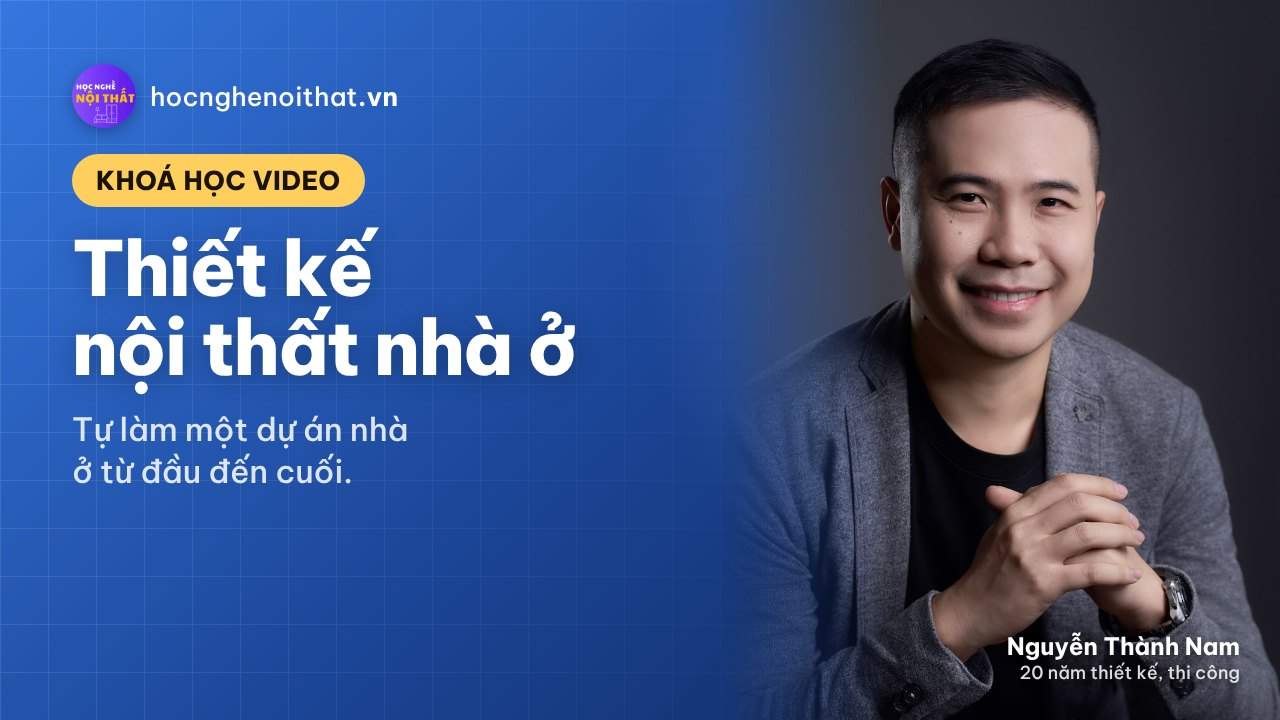
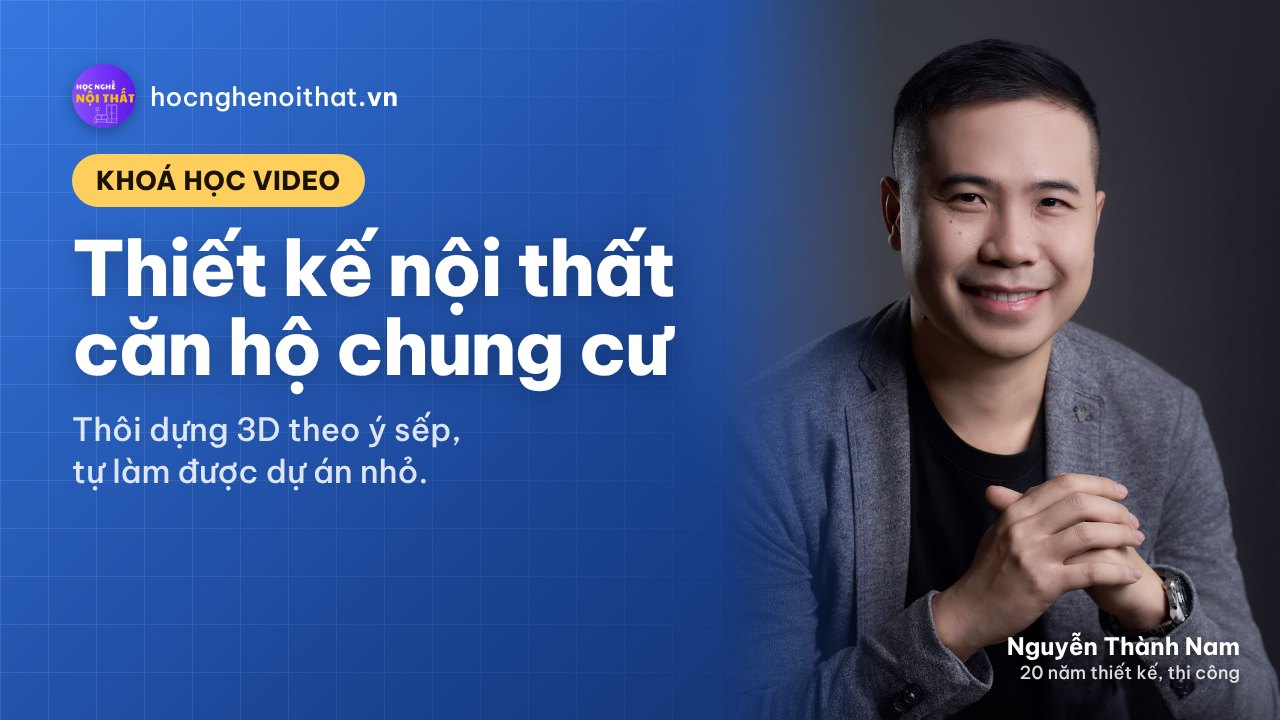
Khoá học: đổi tên Thiết kế nội thất căn hộ chung cư, bỏ nhãn trùng ý, câu giới thiệu 1 dòng có ngoặc kép ở mọi thẻ; Chuyển khoản (tại đây) cùng dòng
Claude-Session: https://claude.ai/code/session_01R1JQNXKSkK2vrspryuBMNZ

Changed region(s): [[0.0625, 0.3056, 0.5312, 0.55], [0.0312, 0.5806, 0.375, 0.6722]]

diff --git a/index.html b/index.html
@@ -905,6 +905,13 @@
   .channels li::after{ content:"›"; position:absolute; right:4px; top:50%; transform:translateY(-50%); font-size:22px; color:var(--muted); transition:transform .2s, color .2s; }
   .channels li:hover::after{ color:var(--primary); transform:translate(3px,-50%); }
   .channels li:hover a{ color:var(--primary); }
+  /* Câu giới thiệu khoá học: có dấu ngoặc kép ở đầu như nhau */
+  .course-grid .course-hook{ position:relative; padding-left:30px; color:rgba(255,255,255,.88); font-weight:300; }
+  .course-grid .course-hook::before{ content:"\201C"; position:absolute; left:0; top:-6px; font-size:46px; line-height:1; font-weight:600; color:rgba(255,255,255,.55); font-family:Georgia, 'Times New Roman', serif; }
+  .course-grid .course .h-card, .course-grid .course-name{ margin-top:0; }
+  /* Chuyển khoản (tại đây) cùng một dòng */
+  .how-steps .qr-box > summary{ white-space:nowrap; font-size:15px !important; }
+  .how-steps .qr-here{ display:inline; }
   /* nút Zalo tròn */
   .zalo-float{ width:58px; height:58px; min-height:0; padding:0; justify-content:center; border-radius:50% !important; background:#0068FF; }
   .zalo-float:hover{ background:#0057D9; }
@@ -1182,10 +1189,9 @@
 
     <div class="course-grid">
       <article class="card course c-blue" id="khoa-nha-o">
-        <span class="badge">Tập trung căn hộ chung cư</span>
-        <h3 class="course-name">Thiết kế nội thất nhà ở</h3>
-        <p class="course-hook">Thôi dựng 3D theo ý sếp.<span>Tự làm được một dự án nhà ở từ đầu đến cuối.</span></p>
-          <div class="yt" data-id="4BU7QPbhG1c"><a class="yt-btn" href="https://youtu.be/4BU7QPbhG1c" target="_blank" rel="noopener" aria-label="Phát video: Thiết kế nội thất nhà ở"><img src="anh/video-nha-o.jpg" width="1280" height="720" alt="" loading="lazy" decoding="async"><span class="yt-play" aria-hidden="true"></span></a></div>
+        <h3 class="course-name">Thiết kế nội thất căn hộ chung cư</h3>
+        <p class="course-hook">Thôi dựng 3D theo ý sếp, tự làm được dự án nhỏ.</p>
+          <div class="yt" data-id="4BU7QPbhG1c"><a class="yt-btn" href="https://youtu.be/4BU7QPbhG1c" target="_blank" rel="noopener" aria-label="Phát video: Thiết kế nội thất căn hộ chung cư"><img src="anh/video-nha-o.jpg" width="1280" height="720" alt="" loading="lazy" decoding="async"><span class="yt-play" aria-hidden="true"></span></a></div>
         <div class="course-price">2.000.000 <small>đ</small></div>
         <div class="course-acts"><a class="btn btn-light btn-cta" href="https://docs.google.com/forms/d/e/1FAIpQLSdifzcGTMugGK9Ek7sWFCMCUjauHt-X1sbSAenD5RiDJKavzA/viewform" target="_blank" rel="noopener">Đăng ký ngay <span class="arrow" aria-hidden="true">›</span></a><a class="btn btn-glass" href="khoa-hoc/nha-o.html">Xem chi tiết <span aria-hidden="true">›</span></a></div>
       </article>
@@ -1193,16 +1199,15 @@
       <article class="card course c-teal" id="khoa-du-toan">
         <span class="badge">Kèm file báo giá thật</span>
         <h3 class="course-name">Dự toán thi công nội thất cơ bản</h3>
-        <p class="course-hook">Sắp tự đứng ra nhận công trình?<span>Học làm báo giá bằng Excel cho chuẩn.</span></p>
+        <p class="course-hook">Sắp tự nhận công trình? Học làm báo giá bằng Excel cho chuẩn.</p>
           <div class="yt" data-id="xZTKqIOn3Ho"><a class="yt-btn" href="https://youtu.be/xZTKqIOn3Ho" target="_blank" rel="noopener" aria-label="Phát video: Dự toán thi công nội thất cơ bản"><img src="anh/video-du-toan.jpg" width="1280" height="720" alt="" loading="lazy" decoding="async"><span class="yt-play" aria-hidden="true"></span></a></div>
         <div class="course-price">2.000.000 <small>đ</small></div>
         <div class="course-acts"><a class="btn btn-light btn-cta" href="https://docs.google.com/forms/d/e/1FAIpQLSfOYgJ1NfPnBZgYwoXjs7Bxw-1M9cBJWtqSdpA-mTsrHY5d0g/viewform" target="_blank" rel="noopener">Đăng ký ngay <span class="arrow" aria-hidden="true">›</span></a><a class="btn btn-glass" href="khoa-hoc/du-toan.html">Xem chi tiết <span aria-hidden="true">›</span></a></div>
       </article>
 
       <article class="card course c-plum" id="khoa-sale">
-        <span class="badge">Dành cho sale nội thất</span>
         <h3 class="course-name">Tư vấn thiết kế dành cho sale nội thất</h3>
-        <p class="course-hook">Sale hiểu vật liệu, hiểu xưởng.<span>Giao đề bài đúng cho đội thiết kế ngay từ đầu.</span></p>
+        <p class="course-hook">Sale hiểu vật liệu, hiểu xưởng, giao đề bài đúng cho đội thiết kế.</p>
           <div class="yt" data-id="o3diN7-IPm8"><a class="yt-btn" href="https://youtu.be/o3diN7-IPm8" target="_blank" rel="noopener" aria-label="Phát video: Tư vấn thiết kế dành cho sale nội thất"><img src="anh/video-sale.jpg" width="1280" height="720" alt="" loading="lazy" decoding="async"><span class="yt-play" aria-hidden="true"></span></a></div>
         <div class="course-price">2.000.000 <small>đ</small></div>
         <div class="course-acts"><a class="btn btn-light btn-cta" href="https://docs.google.com/forms/d/e/1FAIpQLSd36TPP4fJHnBqVSjlIcWRFq9aTq3KaVEYv0PhZv77tCKz2KQ/viewform" target="_blank" rel="noopener">Đăng ký ngay <span class="arrow" aria-hidden="true">›</span></a><a class="btn btn-glass" href="khoa-hoc/sale.html">Xem chi tiết <span aria-hidden="true">›</span></a></div>
@@ -1211,7 +1216,7 @@
       <article class="card course c-soon" id="khoa-cnc">
         <span class="badge badge-soon">Sắp ra mắt</span>
         <h3 class="course-name">Ra file cắt CNC với ABF</h3>
-        <p class="course-hook">Chốt mẫu xong là tự ra được file cắt.<span>Tránh hỏng ván, mất tiền.</span></p>
+        <p class="course-hook">Chốt mẫu xong là tự ra được file cắt, tránh hỏng ván, mất tiền.</p>
         <div class="yt yt-still"><img src="anh/video-cnc.jpg" width="1280" height="720" alt="Khoá Ra file cắt CNC với ABF, sắp ra mắt" loading="lazy" decoding="async"></div>
         <div class="course-price">4.000.000 <small>đ</small></div>
         <div class="course-acts"><a class="btn btn-light btn-cta" href="https://docs.google.com/forms/d/e/1FAIpQLSdlW6PsAcfmVvk8memwWx3kS7WMFKxt3L8bE9HIWEsogFJPYQ/viewform" target="_blank" rel="noopener">Đăng ký trước <span class="arrow" aria-hidden="true">›</span></a><a class="btn btn-glass" href="khoa-hoc/cnc.html">Xem chi tiết <span aria-hidden="true">›</span></a></div>

diff --git a/khoa-hoc/nha-o.html b/khoa-hoc/nha-o.html
@@ -3,7 +3,7 @@
 <head>
 <meta charset="utf-8">
 <meta name="viewport" content="width=device-width, initial-scale=1">
-<title>Thiết kế nội thất nhà ở · Khoá học · hocnghenoithat.vn</title>
+<title>Thiết kế nội thất căn hộ chung cư · Khoá học · hocnghenoithat.vn</title>
 <meta name="description" content="Thôi dựng 3D theo ý sếp. Tự làm được một dự án nhà ở từ đầu đến cuối.">
 <link rel="icon" type="image/png" href="../anh/favicon.png">
 <link rel="apple-touch-icon" href="../anh/logo-180.png">
@@ -29,8 +29,8 @@
     <div class="wrap hero-grid">
       <div>
         <a class="back" href="../index.html#khoa-hoc">‹ Tất cả khoá học</a>
-        <span class="tag">Tập trung căn hộ chung cư</span>
-        <h1>Thiết kế nội thất nhà ở</h1>
+        <span class="tag">Khoá học video</span>
+        <h1>Thiết kế nội thất căn hộ chung cư</h1>
         <p class="hook">Thôi dựng 3D theo ý sếp.<span>Tự làm được một dự án nhà ở từ đầu đến cuối.</span></p>
         
         <div class="price">2.000.000 <small>đ</small></div>
@@ -44,10 +44,10 @@
       <li><b>1</b><span>Điền form đăng ký</span></li><li class="has-qr"><b>2</b><details class="qr-box"><summary>Chuyển khoản <span class="qr-here">(tại đây)</span></summary><a class="qr" href="../anh/qr-chuyen-khoan.jpg" target="_blank" rel="noopener"><img src="../anh/qr-chuyen-khoan.jpg" alt="Mã QR chuyển khoản MB Bank, tài khoản Nguyen Thanh Nam" loading="lazy"></a></details></li>
       <li><b>3</b><span>Nhắn Zalo để xác nhận với Nam</span></li><li><b>4</b><span>Nhận link bài học qua email</span></li></ol></section>
     <section class="cta-band c-blue">
-      <div><b>Thiết kế nội thất nhà ở</b><span>2.000.000 đ</span></div>
+      <div><b>Thiết kế nội thất căn hộ chung cư</b><span>2.000.000 đ</span></div>
       <a class="btn btn-cta" href="https://docs.google.com/forms/d/e/1FAIpQLSdifzcGTMugGK9Ek7sWFCMCUjauHt-X1sbSAenD5RiDJKavzA/viewform" target="_blank" rel="noopener">Đăng ký ngay ›</a>
     </section>
-    <section class="blk"><h2>Các khoá khác</h2><div class="others"><a class="other c-violet" href="do-go.html"><span>Nên học trước</span><b>Thiết kế đồ nội thất gỗ công nghiệp</b></a><a class="other c-teal" href="du-toan.html"><span>Kèm file báo giá thật</span><b>Dự toán thi công nội thất cơ bản</b></a><a class="other c-plum" href="sale.html"><span>Dành cho sale nội thất</span><b>Tư vấn thiết kế dành cho sale nội thất</b></a><a class="other c-slate" href="cnc.html"><span>Sắp ra mắt</span><b>Ra file cắt CNC với ABF</b></a></div></section>
+    <section class="blk"><h2>Các khoá khác</h2><div class="others"><a class="other c-violet" href="do-go.html"><span>Nên học trước</span><b>Thiết kế đồ nội thất gỗ công nghiệp</b></a><a class="other c-teal" href="du-toan.html"><span>Kèm file báo giá thật</span><b>Dự toán thi công nội thất cơ bản</b></a><a class="other c-plum" href="sale.html"><span>Khoá học video</span><b>Tư vấn thiết kế dành cho sale nội thất</b></a><a class="other c-slate" href="cnc.html"><span>Sắp ra mắt</span><b>Ra file cắt CNC với ABF</b></a></div></section>
   </div>
 </main>
 <footer class="foot"><div class="wrap">© 2026 hocnghenoithat.vn · Nguyễn Thành Nam</div></footer>

diff --git a/khoa-hoc/sale.html b/khoa-hoc/sale.html
@@ -29,7 +29,7 @@
     <div class="wrap hero-grid">
       <div>
         <a class="back" href="../index.html#khoa-hoc">‹ Tất cả khoá học</a>
-        <span class="tag">Dành cho sale nội thất</span>
+        <span class="tag">Khoá học video</span>
         <h1>Tư vấn thiết kế dành cho sale nội thất</h1>
         <p class="hook">Sale hiểu vật liệu, hiểu xưởng.<span>Giao đề bài đúng cho đội thiết kế ngay từ đầu.</span></p>
         
@@ -47,7 +47,7 @@
       <div><b>Tư vấn thiết kế dành cho sale nội thất</b><span>2.000.000 đ</span></div>
       <a class="btn btn-cta" href="https://docs.google.com/forms/d/e/1FAIpQLSd36TPP4fJHnBqVSjlIcWRFq9aTq3KaVEYv0PhZv77tCKz2KQ/viewform" target="_blank" rel="noopener">Đăng ký ngay ›</a>
     </section>
-    <section class="blk"><h2>Các khoá khác</h2><div class="others"><a class="other c-violet" href="do-go.html"><span>Nên học trước</span><b>Thiết kế đồ nội thất gỗ công nghiệp</b></a><a class="other c-blue" href="nha-o.html"><span>Tập trung căn hộ chung cư</span><b>Thiết kế nội thất nhà ở</b></a><a class="other c-teal" href="du-toan.html"><span>Kèm file báo giá thật</span><b>Dự toán thi công nội thất cơ bản</b></a><a class="other c-slate" href="cnc.html"><span>Sắp ra mắt</span><b>Ra file cắt CNC với ABF</b></a></div></section>
+    <section class="blk"><h2>Các khoá khác</h2><div class="others"><a class="other c-violet" href="do-go.html"><span>Nên học trước</span><b>Thiết kế đồ nội thất gỗ công nghiệp</b></a><a class="other c-blue" href="nha-o.html"><span>Khoá học video</span><b>Thiết kế nội thất căn hộ chung cư</b></a><a class="other c-teal" href="du-toan.html"><span>Kèm file báo giá thật</span><b>Dự toán thi công nội thất cơ bản</b></a><a class="other c-slate" href="cnc.html"><span>Sắp ra mắt</span><b>Ra file cắt CNC với ABF</b></a></div></section>
   </div>
 </main>
 <footer class="foot"><div class="wrap">© 2026 hocnghenoithat.vn · Nguyễn Thành Nam</div></footer>

diff --git a/khoa-hoc/cnc.html b/khoa-hoc/cnc.html
@@ -47,7 +47,7 @@
       <div><b>Ra file cắt CNC với ABF</b><span>4.000.000 đ</span></div>
       <a class="btn btn-cta" href="https://docs.google.com/forms/d/e/1FAIpQLSdlW6PsAcfmVvk8memwWx3kS7WMFKxt3L8bE9HIWEsogFJPYQ/viewform" target="_blank" rel="noopener">Đăng ký trước ›</a>
     </section>
-    <section class="blk"><h2>Các khoá khác</h2><div class="others"><a class="other c-violet" href="do-go.html"><span>Nên học trước</span><b>Thiết kế đồ nội thất gỗ công nghiệp</b></a><a class="other c-blue" href="nha-o.html"><span>Tập trung căn hộ chung cư</span><b>Thiết kế nội thất nhà ở</b></a><a class="other c-teal" href="du-toan.html"><span>Kèm file báo giá thật</span><b>Dự toán thi công nội thất cơ bản</b></a><a class="other c-plum" href="sale.html"><span>Dành cho sale nội thất</span><b>Tư vấn thiết kế dành cho sale nội thất</b></a></div></section>
+    <section class="blk"><h2>Các khoá khác</h2><div class="others"><a class="other c-violet" href="do-go.html"><span>Nên học trước</span><b>Thiết kế đồ nội thất gỗ công nghiệp</b></a><a class="other c-blue" href="nha-o.html"><span>Khoá học video</span><b>Thiết kế nội thất căn hộ chung cư</b></a><a class="other c-teal" href="du-toan.html"><span>Kèm file báo giá thật</span><b>Dự toán thi công nội thất cơ bản</b></a><a class="other c-plum" href="sale.html"><span>Khoá học video</span><b>Tư vấn thiết kế dành cho sale nội thất</b></a></div></section>
   </div>
 </main>
 <footer class="foot"><div class="wrap">© 2026 hocnghenoithat.vn · Nguyễn Thành Nam</div></footer>

diff --git a/khoa-hoc/do-go.html b/khoa-hoc/do-go.html
@@ -47,7 +47,7 @@
       <div><b>Thiết kế đồ nội thất gỗ công nghiệp</b><span>3.000.000 đ</span></div>
       <a class="btn btn-cta" href="https://docs.google.com/forms/d/e/1FAIpQLSfQxAkoKXSXmKOlOiXHCPoDMdVTEEzLfocBijmvAzzzoXNQAg/viewform" target="_blank" rel="noopener">Đăng ký ngay ›</a>
     </section>
-    <section class="blk"><h2>Các khoá khác</h2><div class="others"><a class="other c-blue" href="nha-o.html"><span>Tập trung căn hộ chung cư</span><b>Thiết kế nội thất nhà ở</b></a><a class="other c-teal" href="du-toan.html"><span>Kèm file báo giá thật</span><b>Dự toán thi công nội thất cơ bản</b></a><a class="other c-plum" href="sale.html"><span>Dành cho sale nội thất</span><b>Tư vấn thiết kế dành cho sale nội thất</b></a><a class="other c-slate" href="cnc.html"><span>Sắp ra mắt</span><b>Ra file cắt CNC với ABF</b></a></div></section>
+    <section class="blk"><h2>Các khoá khác</h2><div class="others"><a class="other c-blue" href="nha-o.html"><span>Khoá học video</span><b>Thiết kế nội thất căn hộ chung cư</b></a><a class="other c-teal" href="du-toan.html"><span>Kèm file báo giá thật</span><b>Dự toán thi công nội thất cơ bản</b></a><a class="other c-plum" href="sale.html"><span>Khoá học video</span><b>Tư vấn thiết kế dành cho sale nội thất</b></a><a class="other c-slate" href="cnc.html"><span>Sắp ra mắt</span><b>Ra file cắt CNC với ABF</b></a></div></section>
   </div>
 </main>
 <footer class="foot"><div class="wrap">© 2026 hocnghenoithat.vn · Nguyễn Thành Nam</div></footer>

diff --git a/khoa-hoc/du-toan.html b/khoa-hoc/du-toan.html
@@ -47,7 +47,7 @@
       <div><b>Dự toán thi công nội thất cơ bản</b><span>2.000.000 đ</span></div>
       <a class="btn btn-cta" href="https://docs.google.com/forms/d/e/1FAIpQLSfOYgJ1NfPnBZgYwoXjs7Bxw-1M9cBJWtqSdpA-mTsrHY5d0g/viewform" target="_blank" rel="noopener">Đăng ký ngay ›</a>
     </section>
-    <section class="blk"><h2>Các khoá khác</h2><div class="others"><a class="other c-violet" href="do-go.html"><span>Nên học trước</span><b>Thiết kế đồ nội thất gỗ công nghiệp</b></a><a class="other c-blue" href="nha-o.html"><span>Tập trung căn hộ chung cư</span><b>Thiết kế nội thất nhà ở</b></a><a class="other c-plum" href="sale.html"><span>Dành cho sale nội thất</span><b>Tư vấn thiết kế dành cho sale nội thất</b></a><a class="other c-slate" href="cnc.html"><span>Sắp ra mắt</span><b>Ra file cắt CNC với ABF</b></a></div></section>
+    <section class="blk"><h2>Các khoá khác</h2><div class="others"><a class="other c-violet" href="do-go.html"><span>Nên học trước</span><b>Thiết kế đồ nội thất gỗ công nghiệp</b></a><a class="other c-blue" href="nha-o.html"><span>Khoá học video</span><b>Thiết kế nội thất căn hộ chung cư</b></a><a class="other c-plum" href="sale.html"><span>Khoá học video</span><b>Tư vấn thiết kế dành cho sale nội thất</b></a><a class="other c-slate" href="cnc.html"><span>Sắp ra mắt</span><b>Ra file cắt CNC với ABF</b></a></div></section>
   </div>
 </main>
 <footer class="foot"><div class="wrap">© 2026 hocnghenoithat.vn · Nguyễn Thành Nam</div></footer>

diff --git a/cong-cu/thumbnail/tao.js b/cong-cu/thumbnail/tao.js
@@ -3,7 +3,7 @@ const {chromium}=require('playwright');const path=require('path');
 const goc=path.resolve(__dirname,'..','..');
 const ds=[
  ['do-go','violet','Xem video bài giảng','Thiết kế|đồ gỗ công nghiệp','Vẽ sao cho xưởng sản xuất được mới là thiết kế.'],
- ['nha-o','blue','Khoá học video','Thiết kế|nội thất nhà ở','Tự làm một dự án nhà ở từ đầu đến cuối.'],
+ ['nha-o','blue','Khoá học video','Thiết kế nội thất|căn hộ chung cư','Thôi dựng 3D theo ý sếp, tự làm được dự án nhỏ.'],
  ['du-toan','teal','Khoá học video','Dự toán|thi công nội thất','Làm báo giá bằng Excel, từ file báo giá thật.'],
  ['sale','plum','Khoá học video','Tư vấn thiết kế|cho sale nội thất','Hiểu vật liệu, hiểu xưởng, giao đề bài đúng.'],
  ['cnc','slate','Sắp ra mắt','Ra file cắt CNC|với ABF','Chốt mẫu xong là tự ra file cắt, tránh hỏng ván.'],

diff --git a/khoa-hoc/khoa-hoc.css b/khoa-hoc/khoa-hoc.css
@@ -88,3 +88,5 @@ figcaption{ margin-top:8px; font-size:14px; color:var(--muted); }
 .how .qr-box > summary{ display:block; padding-top:8px !important; min-height:40px; margin:0; padding:0; border:0; background:none; color:var(--text); font-size:16px; font-weight:500; border-radius:0; }
 .how .qr-box[open] > summary{ background:none; color:var(--text); }
 .qr-here{ white-space:nowrap; margin-left:5px; color:var(--primary); text-decoration:underline; text-underline-offset:3px; }
+.how .qr-box > summary{ white-space:nowrap; font-size:15px !important; }
+.how .qr-here{ display:inline; }

diff --git a/cong-cu/tao-khoa-hoc.py b/cong-cu/tao-khoa-hoc.py
@@ -33,8 +33,8 @@ KHOA = [
                  'Đủ tự tin để nhận cả thiết kế lẫn thi công đồ gỗ'],
        ho_tro='Gửi bài vào nhóm Facebook học viên, Nam nhận xét.',
        video=[('RMaDNY6P_i0', 'Xem video bài giảng')], anh=[]),
-  dict(ten='nha-o', mau='c-blue', nhan='Tập trung căn hộ chung cư',
-       tieu_de='Thiết kế nội thất nhà ở',
+  dict(ten='nha-o', mau='c-blue', nhan='Khoá học video',
+       tieu_de='Thiết kế nội thất căn hộ chung cư',
        cau1='Thôi dựng 3D theo ý sếp.', cau2='Tự làm được một dự án nhà ở từ đầu đến cuối.',
        gia='2.000.000', gia_phu='', so_lieu='',
        form='1FAIpQLSdifzcGTMugGK9Ek7sWFCMCUjauHt-X1sbSAenD5RiDJKavzA',
@@ -58,7 +58,7 @@ KHOA = [
        lam_duoc=['Tự lập báo giá cho một công trình nội thất', 'Biết mình đang lãi lỗ ở đâu trước khi ký hợp đồng'],
        ho_tro='', video=[('xZTKqIOn3Ho', 'Video giới thiệu khoá học')],
        anh=[('anh/cua-hang-giay.jpg', 'Cửa hàng giày Nam làm, dùng làm ví dụ trong khoá')]),
-  dict(ten='sale', mau='c-plum', nhan='Dành cho sale nội thất',
+  dict(ten='sale', mau='c-plum', nhan='Khoá học video',
        tieu_de='Tư vấn thiết kế dành cho sale nội thất',
        cau1='Sale hiểu vật liệu, hiểu xưởng.', cau2='Giao đề bài đúng cho đội thiết kế ngay từ đầu.',
        gia='2.000.000', gia_phu='', so_lieu='',
